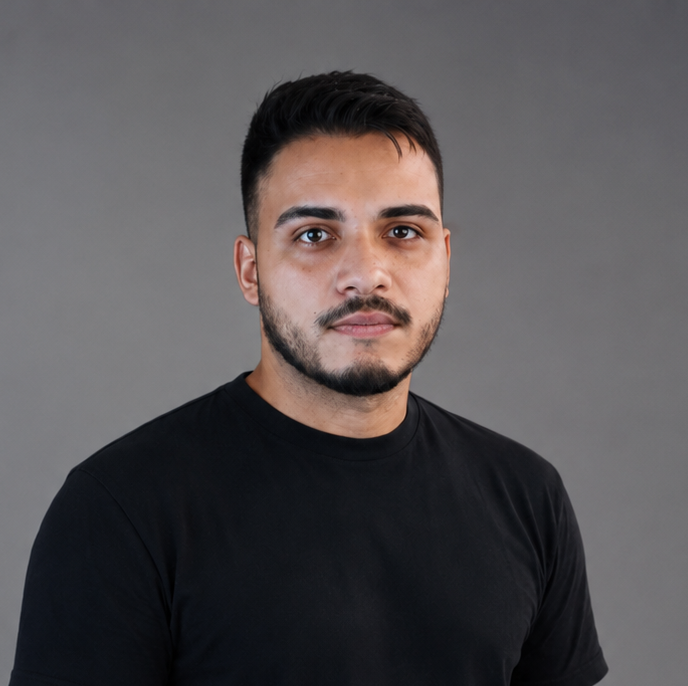
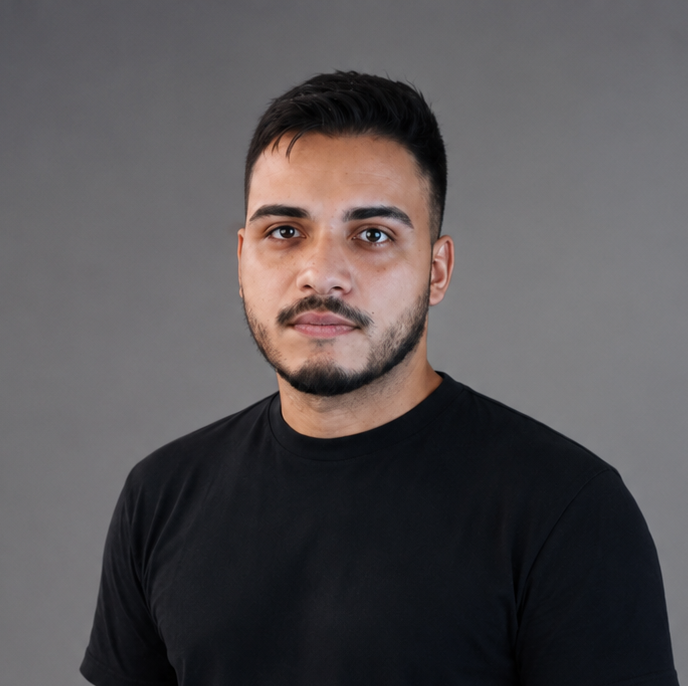
Substitui foto do Hero por versão espelhada e remove PHP de Linguagens
- Foto do Hero trocada por uma versão espelhada horizontalmente, para
  o olhar apontar em direção ao texto em vez de para o lado oposto.
- Cache-busting (?v=2) estendido às referências dessa imagem (tag
  <img> e meta tags og:image/twitter:image), já que o arquivo manteve
  o mesmo nome.
- PHP removido da lista da habilidade "Linguagens".

Bump do cache-busting de js/i18n.js para v=4.

Changed region(s): [[0.0, 0.0918, 1.0, 1.0], [0.2137, 0.7959, 0.2747, 1.0], [0.7326, 0.7959, 0.7936, 1.0]]

diff --git a/index.html b/index.html
@@ -11,12 +11,12 @@
   <meta property="og:url" content="https://thomastds.github.io/portfolio/">
   <meta property="og:title" content="Thomas Teixeira | Analista de Qualidade de Software">
   <meta property="og:description" content="Portfólio de Thomas Teixeira, Analista de Qualidade de Software especializado em testes manuais e automatizados, Playwright, TypeScript e integração contínua.">
-  <meta property="og:image" content="https://thomastds.github.io/portfolio/assets/img/thomas-teixeira.png">
+  <meta property="og:image" content="https://thomastds.github.io/portfolio/assets/img/thomas-teixeira.png?v=2">
 
   <meta name="twitter:card" content="summary_large_image">
   <meta name="twitter:title" content="Thomas Teixeira | Analista de Qualidade de Software">
   <meta name="twitter:description" content="Portfólio de Thomas Teixeira, Analista de Qualidade de Software especializado em testes manuais e automatizados, Playwright, TypeScript e integração contínua.">
-  <meta name="twitter:image" content="https://thomastds.github.io/portfolio/assets/img/thomas-teixeira.png">
+  <meta name="twitter:image" content="https://thomastds.github.io/portfolio/assets/img/thomas-teixeira.png?v=2">
 
   <link rel="icon" href="data:,">
   <link rel="preconnect" href="https://fonts.googleapis.com">
@@ -121,7 +121,7 @@
 
         <div class="hero-visual reveal">
           <div class="hero-photo">
-            <img src="assets/img/thomas-teixeira.png" alt="Foto de Thomas Teixeira">
+            <img src="assets/img/thomas-teixeira.png?v=2" alt="Foto de Thomas Teixeira">
           </div>
         </div>
       </div>
@@ -217,7 +217,7 @@
         </div>
         <div class="skill-card">
           <h3 data-i18n="skill6.name">Linguagens</h3>
-          <p data-i18n="skill6.desc"><strong>TypeScript</strong> e <strong>JavaScript</strong>, além de Python, PHP, HTML e CSS.</p>
+          <p data-i18n="skill6.desc"><strong>TypeScript</strong> e <strong>JavaScript</strong>, além de Python, HTML e CSS.</p>
         </div>
         <div class="skill-card">
           <h3 data-i18n="skill7.name">Produtividade com IA</h3>
@@ -559,7 +559,7 @@
     </div>
   </footer>
 
-  <script src="js/i18n.js?v=3"></script>
+  <script src="js/i18n.js?v=4"></script>
   <script src="js/script.js?v=1"></script>
 </body>
 </html>

diff --git a/js/i18n.js b/js/i18n.js
@@ -50,7 +50,7 @@ const I18N = {
     'skill4.desc': 'Esteiras de testes integradas ao CI/CD e ambientes em containers.',
     'skill5.name': 'Gestão de bugs',
     'skill5.desc': 'Acompanhamento de releases e defeitos com <strong>Jira</strong>, Azure DevOps e TestRail.',
-    'skill6.desc': '<strong>TypeScript</strong> e <strong>JavaScript</strong>, além de Python, PHP, HTML e CSS.',
+    'skill6.desc': '<strong>TypeScript</strong> e <strong>JavaScript</strong>, além de Python, HTML e CSS.',
     'skill6.name': 'Linguagens',
     'skill7.name': 'Produtividade com IA',
     'skill7.desc': 'Apoio em criação de casos de teste, análise de requisitos, code review, documentação e mapeamento de riscos.',
@@ -210,7 +210,7 @@ const I18N = {
     'skill4.desc': 'Test pipelines integrated with CI/CD and containerized environments.',
     'skill5.name': 'Bug management',
     'skill5.desc': 'Release and defect tracking with <strong>Jira</strong>, Azure DevOps, and TestRail.',
-    'skill6.desc': '<strong>TypeScript</strong> and <strong>JavaScript</strong>, plus Python, PHP, HTML, and CSS.',
+    'skill6.desc': '<strong>TypeScript</strong> and <strong>JavaScript</strong>, plus Python, HTML, and CSS.',
     'skill6.name': 'Languages',
     'skill7.name': 'AI-assisted productivity',
     'skill7.desc': 'Support for writing test cases, requirements analysis, code review, documentation, and risk mapping.',
